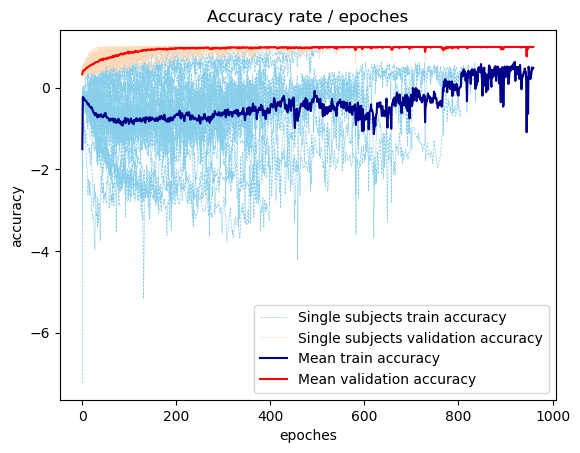
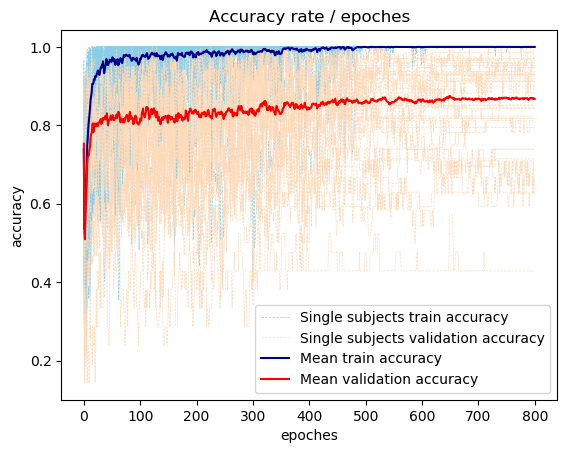
a

diff --git a/proccesSinglePlots.py b/proccesSinglePlots.py
@@ -25,7 +25,7 @@ for p in plotTypes:
             if subject == 44 or subject == 45:
                 continue
             try:
-                subjectData = np.load("single_subjects\{}-trialwise-singleSubjectNum{}-2.5sec-800epoches.npy".format(model, subject))
+                subjectData = np.load("finetuning\{}-trialwise-singleSubjectNum{}-2.5sec-800epoches.npy".format(model, subject))
                 print(subjectData.shape)
                 if subject ==1 :        
                     if plotType == 'accuracy':
